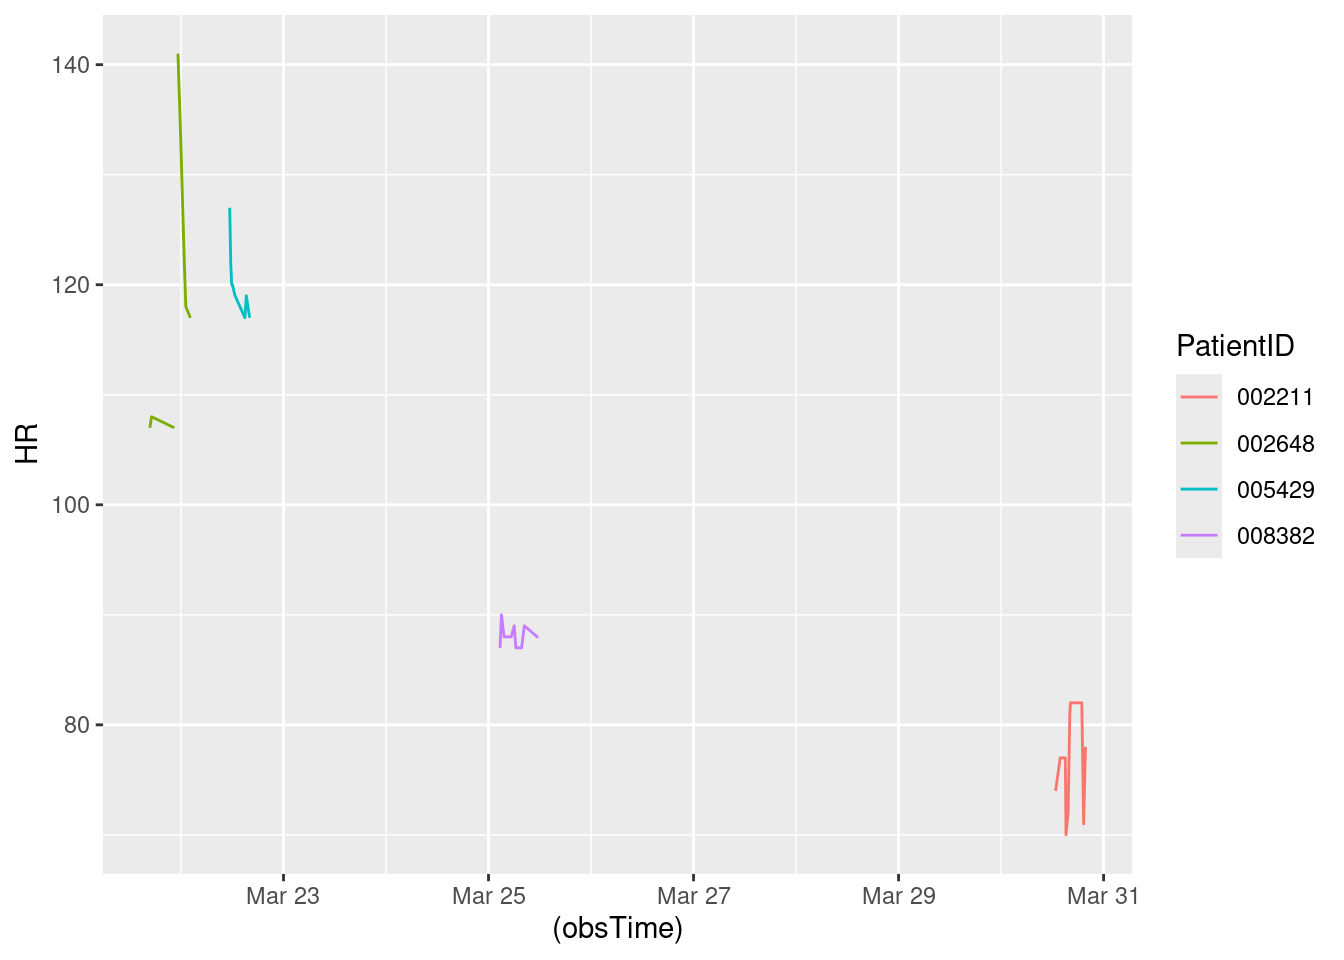
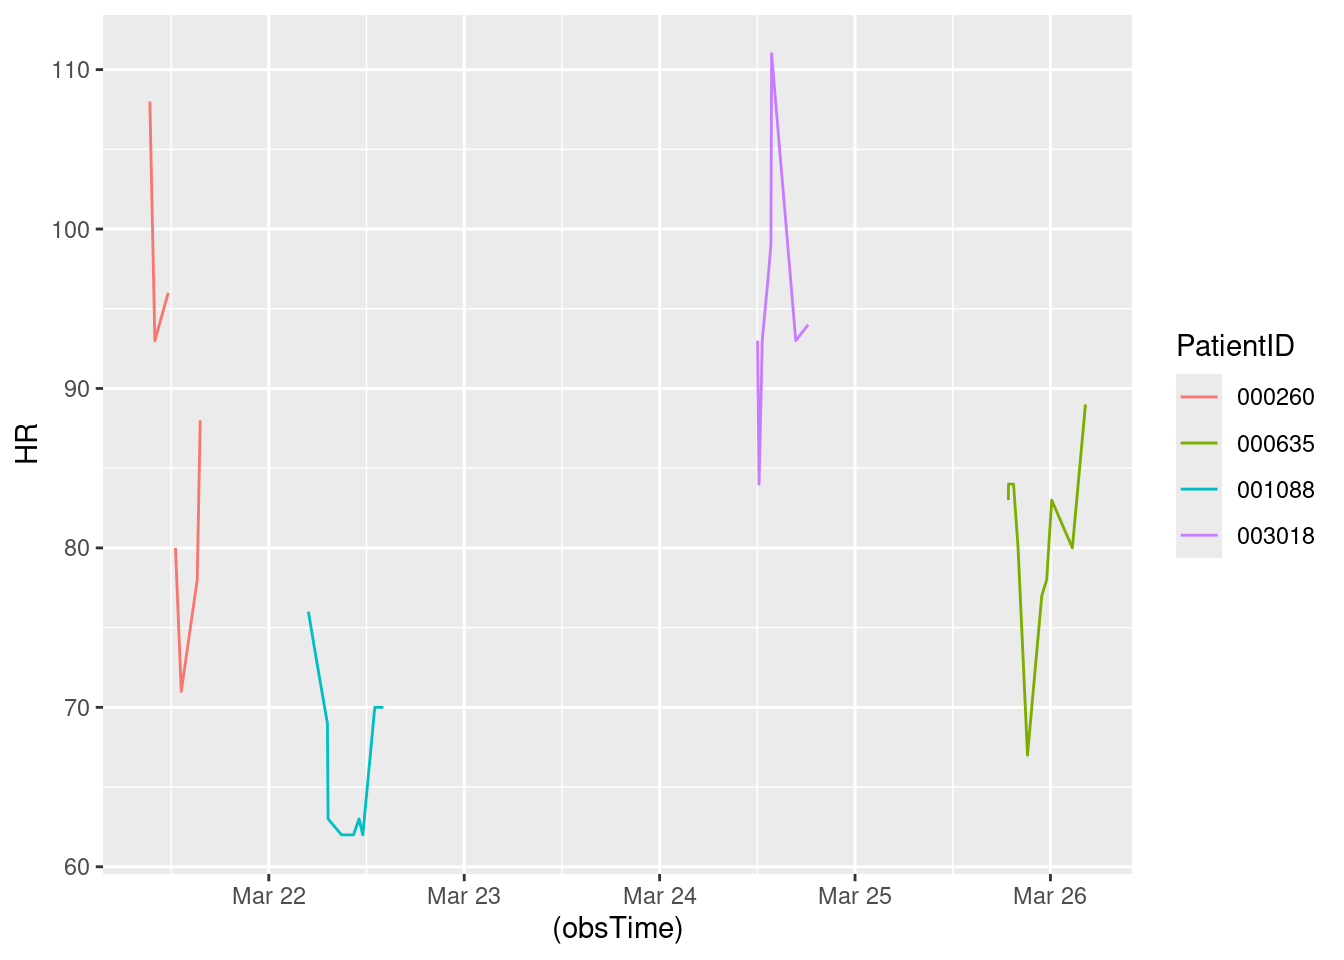
Updated report

diff --git a/HW7.html b/HW7.html
@@ -152,7 +152,7 @@ The following object is masked from 'package:purrr':
 </div>
 <div class="sourceCode cell-code" id="cb8"><pre class="sourceCode r code-with-copy"><code class="sourceCode r"><span id="cb8-1"><a href="#cb8-1" aria-hidden="true" tabindex="-1"></a><span class="fu">toc</span>()</span></code><button title="Copy to Clipboard" class="code-copy-button"><i class="bi"></i></button></pre></div>
 <div class="cell-output cell-output-stdout">
-<pre><code>16.746 sec elapsed</code></pre>
+<pre><code>14.402 sec elapsed</code></pre>
 </div>
 <div class="sourceCode cell-code" id="cb10"><pre class="sourceCode r code-with-copy"><code class="sourceCode r"><span id="cb10-1"><a href="#cb10-1" aria-hidden="true" tabindex="-1"></a><span class="fu">tic</span>()</span>
 <span id="cb10-2"><a href="#cb10-2" aria-hidden="true" tabindex="-1"></a>test1<span class="ot">=</span><span class="fu">makeSepsisDataset</span>(<span class="at">n=</span><span class="dv">50</span>,<span class="at">read_fn =</span> <span class="st">"read_delim"</span>)</span>
@@ -162,7 +162,7 @@ The following object is masked from 'package:purrr':
 </div>
 <div class="sourceCode cell-code" id="cb12"><pre class="sourceCode r code-with-copy"><code class="sourceCode r"><span id="cb12-1"><a href="#cb12-1" aria-hidden="true" tabindex="-1"></a><span class="fu">toc</span>()</span></code><button title="Copy to Clipboard" class="code-copy-button"><i class="bi"></i></button></pre></div>
 <div class="cell-output cell-output-stdout">
-<pre><code>9.253 sec elapsed</code></pre>
+<pre><code>12.454 sec elapsed</code></pre>
 </div>
 <div class="sourceCode cell-code" id="cb14"><pre class="sourceCode r code-with-copy"><code class="sourceCode r"><span id="cb14-1"><a href="#cb14-1" aria-hidden="true" tabindex="-1"></a><span class="fu">tic</span>()</span>
 <span id="cb14-2"><a href="#cb14-2" aria-hidden="true" tabindex="-1"></a>test1<span class="ot">=</span><span class="fu">makeSepsisDataset</span>(<span class="at">n=</span><span class="dv">100</span>,<span class="at">read_fn =</span> <span class="st">"fread"</span>)</span>
@@ -172,7 +172,7 @@ The following object is masked from 'package:purrr':
 </div>
 <div class="sourceCode cell-code" id="cb16"><pre class="sourceCode r code-with-copy"><code class="sourceCode r"><span id="cb16-1"><a href="#cb16-1" aria-hidden="true" tabindex="-1"></a><span class="fu">toc</span>()</span></code><button title="Copy to Clipboard" class="code-copy-button"><i class="bi"></i></button></pre></div>
 <div class="cell-output cell-output-stdout">
-<pre><code>27.759 sec elapsed</code></pre>
+<pre><code>24.923 sec elapsed</code></pre>
 </div>
 <div class="sourceCode cell-code" id="cb18"><pre class="sourceCode r code-with-copy"><code class="sourceCode r"><span id="cb18-1"><a href="#cb18-1" aria-hidden="true" tabindex="-1"></a><span class="fu">tic</span>()</span>
 <span id="cb18-2"><a href="#cb18-2" aria-hidden="true" tabindex="-1"></a>test1<span class="ot">=</span><span class="fu">makeSepsisDataset</span>(<span class="at">n=</span><span class="dv">100</span>,<span class="at">read_fn =</span> <span class="st">"read_delim"</span>)</span>
@@ -182,7 +182,7 @@ The following object is masked from 'package:purrr':
 </div>
 <div class="sourceCode cell-code" id="cb20"><pre class="sourceCode r code-with-copy"><code class="sourceCode r"><span id="cb20-1"><a href="#cb20-1" aria-hidden="true" tabindex="-1"></a><span class="fu">toc</span>()</span></code><button title="Copy to Clipboard" class="code-copy-button"><i class="bi"></i></button></pre></div>
 <div class="cell-output cell-output-stdout">
-<pre><code>17.6 sec elapsed</code></pre>
+<pre><code>24.521 sec elapsed</code></pre>
 </div>
 <div class="sourceCode cell-code" id="cb22"><pre class="sourceCode r code-with-copy"><code class="sourceCode r"><span id="cb22-1"><a href="#cb22-1" aria-hidden="true" tabindex="-1"></a><span class="fu">tic</span>()</span>
 <span id="cb22-2"><a href="#cb22-2" aria-hidden="true" tabindex="-1"></a>test1<span class="ot">=</span><span class="fu">makeSepsisDataset</span>(<span class="at">n=</span><span class="dv">500</span>,<span class="at">read_fn =</span> <span class="st">"fread"</span>)</span>
@@ -192,7 +192,7 @@ The following object is masked from 'package:purrr':
 </div>
 <div class="sourceCode cell-code" id="cb24"><pre class="sourceCode r code-with-copy"><code class="sourceCode r"><span id="cb24-1"><a href="#cb24-1" aria-hidden="true" tabindex="-1"></a><span class="fu">toc</span>()</span></code><button title="Copy to Clipboard" class="code-copy-button"><i class="bi"></i></button></pre></div>
 <div class="cell-output cell-output-stdout">
-<pre><code>150.746 sec elapsed</code></pre>
+<pre><code>123.182 sec elapsed</code></pre>
 </div>
 <div class="sourceCode cell-code" id="cb26"><pre class="sourceCode r code-with-copy"><code class="sourceCode r"><span id="cb26-1"><a href="#cb26-1" aria-hidden="true" tabindex="-1"></a><span class="fu">tic</span>()</span>
 <span id="cb26-2"><a href="#cb26-2" aria-hidden="true" tabindex="-1"></a>test1<span class="ot">=</span><span class="fu">makeSepsisDataset</span>(<span class="at">n=</span><span class="dv">500</span>,<span class="at">read_fn =</span> <span class="st">"read_delim"</span>)</span>
@@ -202,7 +202,7 @@ The following object is masked from 'package:purrr':
 </div>
 <div class="sourceCode cell-code" id="cb28"><pre class="sourceCode r code-with-copy"><code class="sourceCode r"><span id="cb28-1"><a href="#cb28-1" aria-hidden="true" tabindex="-1"></a><span class="fu">toc</span>()</span></code><button title="Copy to Clipboard" class="code-copy-button"><i class="bi"></i></button></pre></div>
 <div class="cell-output cell-output-stdout">
-<pre><code>88.34 sec elapsed</code></pre>
+<pre><code>119.726 sec elapsed</code></pre>
 </div>
 </div>
 <p>Problem 3: Speed reading</p>
@@ -244,7 +244,7 @@ dttm (1): obsTime
 <div class="sourceCode cell-code" id="cb35"><pre class="sourceCode r code-with-copy"><code class="sourceCode r"><span id="cb35-1"><a href="#cb35-1" aria-hidden="true" tabindex="-1"></a><span class="co">#Sys.Date()</span></span>
 <span id="cb35-2"><a href="#cb35-2" aria-hidden="true" tabindex="-1"></a><span class="fu">Sys.time</span>()</span></code><button title="Copy to Clipboard" class="code-copy-button"><i class="bi"></i></button></pre></div>
 <div class="cell-output cell-output-stdout">
-<pre><code>[1] "2024-03-21 08:26:27 UTC"</code></pre>
+<pre><code>[1] "2024-03-21 09:23:25 UTC"</code></pre>
 </div>
 <div class="sourceCode cell-code" id="cb37"><pre class="sourceCode r code-with-copy"><code class="sourceCode r"><span id="cb37-1"><a href="#cb37-1" aria-hidden="true" tabindex="-1"></a>dfnew<span class="ot">=</span>df <span class="sc">%&gt;%</span><span class="fu">subset</span>(SepsisLabel<span class="sc">==</span><span class="dv">1</span>)</span>
 <span id="cb37-2"><a href="#cb37-2" aria-hidden="true" tabindex="-1"></a></span>
@@ -263,19 +263,15 @@ dttm (1): obsTime
 # Groups:   PatientID [4]
   PatientID ICULOS    HR  Temp  Resp SepsisLabel obsTime            
   &lt;chr&gt;      &lt;int&gt; &lt;int&gt; &lt;dbl&gt; &lt;int&gt;       &lt;int&gt; &lt;dttm&gt;             
-1 002211       228    78  NA      22           1 2024-03-30 19:45:16
-2 002648        18   117  NA      18           1 2024-03-22 02:11:35
-3 005429        32   117  38      23           1 2024-03-22 16:04:47
-4 008382       100    88  37.9    31           1 2024-03-25 11:39:50</code></pre>
+1 000260         7    88    NA    24           1 2024-03-21 15:34:35
+2 000635       115    89    NA    21           1 2024-03-26 04:18:08
+3 001088        32    70    NA    22           1 2024-03-22 14:04:58
+4 003018        81    94    NA    17           1 2024-03-24 18:14:09</code></pre>
 </div>
 </div>
 <div class="cell">
 <div class="sourceCode cell-code" id="cb39"><pre class="sourceCode r code-with-copy"><code class="sourceCode r"><span id="cb39-1"><a href="#cb39-1" aria-hidden="true" tabindex="-1"></a>dfnew <span class="sc">%&gt;%</span></span>
 <span id="cb39-2"><a href="#cb39-2" aria-hidden="true" tabindex="-1"></a>  <span class="fu">ggplot</span>()<span class="sc">+</span><span class="fu">geom_line</span>(<span class="fu">aes</span>(<span class="at">y=</span>HR,<span class="at">x=</span>(obsTime),<span class="at">color=</span>PatientID))</span></code><button title="Copy to Clipboard" class="code-copy-button"><i class="bi"></i></button></pre></div>
-<div class="cell-output cell-output-stderr">
-<pre><code>Warning: Removed 2 rows containing missing values or values outside the scale range
-(`geom_line()`).</code></pre>
-</div>
 <div class="cell-output-display">
 <div>
 <figure class="figure">
@@ -288,7 +284,7 @@ dttm (1): obsTime
 <section id="display-the-most-recent-data" class="level2">
 <h2 class="anchored" data-anchor-id="display-the-most-recent-data">Display the most recent data</h2>
 <div class="cell">
-<div class="sourceCode cell-code" id="cb41"><pre class="sourceCode r code-with-copy"><code class="sourceCode r"><span id="cb41-1"><a href="#cb41-1" aria-hidden="true" tabindex="-1"></a>most_recent_data</span></code><button title="Copy to Clipboard" class="code-copy-button"><i class="bi"></i></button></pre></div>
+<div class="sourceCode cell-code" id="cb40"><pre class="sourceCode r code-with-copy"><code class="sourceCode r"><span id="cb40-1"><a href="#cb40-1" aria-hidden="true" tabindex="-1"></a>most_recent_data</span></code><button title="Copy to Clipboard" class="code-copy-button"><i class="bi"></i></button></pre></div>
 <div class="cell-output cell-output-stdout">
 <pre><code># A tibble: 50 × 7
 # Groups:   PatientID [50]
@@ -311,32 +307,32 @@ dttm (1): obsTime
 <section id="calculate-the-difference" class="level2">
 <h2 class="anchored" data-anchor-id="calculate-the-difference">Calculate the difference</h2>
 <div class="cell">
-<div class="sourceCode cell-code" id="cb43"><pre class="sourceCode r code-with-copy"><code class="sourceCode r"><span id="cb43-1"><a href="#cb43-1" aria-hidden="true" tabindex="-1"></a><span class="fu">library</span>(dplyr)</span>
-<span id="cb43-2"><a href="#cb43-2" aria-hidden="true" tabindex="-1"></a><span class="fu">library</span>(tidyr)</span>
-<span id="cb43-3"><a href="#cb43-3" aria-hidden="true" tabindex="-1"></a><span class="fu">library</span>(knitr)</span>
-<span id="cb43-4"><a href="#cb43-4" aria-hidden="true" tabindex="-1"></a>get_observation_data <span class="ot">&lt;-</span> <span class="cf">function</span>(data, n, column_suffix) {</span>
-<span id="cb43-5"><a href="#cb43-5" aria-hidden="true" tabindex="-1"></a>  data <span class="sc">%&gt;%</span></span>
-<span id="cb43-6"><a href="#cb43-6" aria-hidden="true" tabindex="-1"></a>    <span class="fu">group_by</span>(PatientID) <span class="sc">%&gt;%</span></span>
-<span id="cb43-7"><a href="#cb43-7" aria-hidden="true" tabindex="-1"></a>    <span class="fu">slice_max</span>(<span class="at">order_by =</span> obsTime, <span class="at">n =</span> n) <span class="sc">%&gt;%</span></span>
-<span id="cb43-8"><a href="#cb43-8" aria-hidden="true" tabindex="-1"></a>    <span class="fu">select</span>(<span class="sc">-</span><span class="fu">c</span>(ICULOS, SepsisLabel, obsTime)) <span class="sc">%&gt;%</span></span>
-<span id="cb43-9"><a href="#cb43-9" aria-hidden="true" tabindex="-1"></a>    <span class="fu">rename_at</span>(<span class="fu">vars</span>(HR, Temp, Resp),</span>
-<span id="cb43-10"><a href="#cb43-10" aria-hidden="true" tabindex="-1"></a>              <span class="fu">list</span>(<span class="sc">~</span><span class="fu">paste0</span>(., <span class="st">"_"</span>, column_suffix)))</span>
-<span id="cb43-11"><a href="#cb43-11" aria-hidden="true" tabindex="-1"></a>}</span>
-<span id="cb43-12"><a href="#cb43-12" aria-hidden="true" tabindex="-1"></a></span>
-<span id="cb43-13"><a href="#cb43-13" aria-hidden="true" tabindex="-1"></a></span>
-<span id="cb43-14"><a href="#cb43-14" aria-hidden="true" tabindex="-1"></a></span>
-<span id="cb43-15"><a href="#cb43-15" aria-hidden="true" tabindex="-1"></a></span>
-<span id="cb43-16"><a href="#cb43-16" aria-hidden="true" tabindex="-1"></a>last_obs <span class="ot">&lt;-</span> <span class="fu">get_observation_data</span>(new_data, <span class="dv">1</span>, <span class="st">"last"</span>)</span>
-<span id="cb43-17"><a href="#cb43-17" aria-hidden="true" tabindex="-1"></a>penultimate_obs <span class="ot">&lt;-</span> <span class="fu">get_observation_data</span>(new_data, <span class="dv">2</span>, <span class="st">"penult"</span>)</span>
-<span id="cb43-18"><a href="#cb43-18" aria-hidden="true" tabindex="-1"></a>joined_data <span class="ot">&lt;-</span> <span class="fu">full_join</span>(last_obs, penultimate_obs) <span class="sc">%&gt;%</span></span>
-<span id="cb43-19"><a href="#cb43-19" aria-hidden="true" tabindex="-1"></a>  <span class="fu">transmute</span>(PatientID,</span>
-<span id="cb43-20"><a href="#cb43-20" aria-hidden="true" tabindex="-1"></a>            <span class="st">`</span><span class="at">Temperature change</span><span class="st">`</span> <span class="ot">=</span> Temp_last <span class="sc">-</span> Temp_penult,</span>
-<span id="cb43-21"><a href="#cb43-21" aria-hidden="true" tabindex="-1"></a>            <span class="st">`</span><span class="at">Heart rate change</span><span class="st">`</span> <span class="ot">=</span> HR_last <span class="sc">-</span> HR_penult,</span>
-<span id="cb43-22"><a href="#cb43-22" aria-hidden="true" tabindex="-1"></a>            <span class="st">`</span><span class="at">Respiratory rate change</span><span class="st">`</span> <span class="ot">=</span> Resp_last <span class="sc">-</span> Resp_penult)</span></code><button title="Copy to Clipboard" class="code-copy-button"><i class="bi"></i></button></pre></div>
+<div class="sourceCode cell-code" id="cb42"><pre class="sourceCode r code-with-copy"><code class="sourceCode r"><span id="cb42-1"><a href="#cb42-1" aria-hidden="true" tabindex="-1"></a><span class="fu">library</span>(dplyr)</span>
+<span id="cb42-2"><a href="#cb42-2" aria-hidden="true" tabindex="-1"></a><span class="fu">library</span>(tidyr)</span>
+<span id="cb42-3"><a href="#cb42-3" aria-hidden="true" tabindex="-1"></a><span class="fu">library</span>(knitr)</span>
+<span id="cb42-4"><a href="#cb42-4" aria-hidden="true" tabindex="-1"></a>get_observation_data <span class="ot">&lt;-</span> <span class="cf">function</span>(data, n, column_suffix) {</span>
+<span id="cb42-5"><a href="#cb42-5" aria-hidden="true" tabindex="-1"></a>  data <span class="sc">%&gt;%</span></span>
+<span id="cb42-6"><a href="#cb42-6" aria-hidden="true" tabindex="-1"></a>    <span class="fu">group_by</span>(PatientID) <span class="sc">%&gt;%</span></span>
+<span id="cb42-7"><a href="#cb42-7" aria-hidden="true" tabindex="-1"></a>    <span class="fu">slice_max</span>(<span class="at">order_by =</span> obsTime, <span class="at">n =</span> n) <span class="sc">%&gt;%</span></span>
+<span id="cb42-8"><a href="#cb42-8" aria-hidden="true" tabindex="-1"></a>    <span class="fu">select</span>(<span class="sc">-</span><span class="fu">c</span>(ICULOS, SepsisLabel, obsTime)) <span class="sc">%&gt;%</span></span>
+<span id="cb42-9"><a href="#cb42-9" aria-hidden="true" tabindex="-1"></a>    <span class="fu">rename_at</span>(<span class="fu">vars</span>(HR, Temp, Resp),</span>
+<span id="cb42-10"><a href="#cb42-10" aria-hidden="true" tabindex="-1"></a>              <span class="fu">list</span>(<span class="sc">~</span><span class="fu">paste0</span>(., <span class="st">"_"</span>, column_suffix)))</span>
+<span id="cb42-11"><a href="#cb42-11" aria-hidden="true" tabindex="-1"></a>}</span>
+<span id="cb42-12"><a href="#cb42-12" aria-hidden="true" tabindex="-1"></a></span>
+<span id="cb42-13"><a href="#cb42-13" aria-hidden="true" tabindex="-1"></a></span>
+<span id="cb42-14"><a href="#cb42-14" aria-hidden="true" tabindex="-1"></a></span>
+<span id="cb42-15"><a href="#cb42-15" aria-hidden="true" tabindex="-1"></a></span>
+<span id="cb42-16"><a href="#cb42-16" aria-hidden="true" tabindex="-1"></a>last_obs <span class="ot">&lt;-</span> <span class="fu">get_observation_data</span>(new_data, <span class="dv">1</span>, <span class="st">"last"</span>)</span>
+<span id="cb42-17"><a href="#cb42-17" aria-hidden="true" tabindex="-1"></a>penultimate_obs <span class="ot">&lt;-</span> <span class="fu">get_observation_data</span>(new_data, <span class="dv">2</span>, <span class="st">"penult"</span>)</span>
+<span id="cb42-18"><a href="#cb42-18" aria-hidden="true" tabindex="-1"></a>joined_data <span class="ot">&lt;-</span> <span class="fu">full_join</span>(last_obs, penultimate_obs) <span class="sc">%&gt;%</span></span>
+<span id="cb42-19"><a href="#cb42-19" aria-hidden="true" tabindex="-1"></a>  <span class="fu">transmute</span>(PatientID,</span>
+<span id="cb42-20"><a href="#cb42-20" aria-hidden="true" tabindex="-1"></a>            <span class="st">`</span><span class="at">Temperature change</span><span class="st">`</span> <span class="ot">=</span> Temp_last <span class="sc">-</span> Temp_penult,</span>
+<span id="cb42-21"><a href="#cb42-21" aria-hidden="true" tabindex="-1"></a>            <span class="st">`</span><span class="at">Heart rate change</span><span class="st">`</span> <span class="ot">=</span> HR_last <span class="sc">-</span> HR_penult,</span>
+<span id="cb42-22"><a href="#cb42-22" aria-hidden="true" tabindex="-1"></a>            <span class="st">`</span><span class="at">Respiratory rate change</span><span class="st">`</span> <span class="ot">=</span> Resp_last <span class="sc">-</span> Resp_penult)</span></code><button title="Copy to Clipboard" class="code-copy-button"><i class="bi"></i></button></pre></div>
 <div class="cell-output cell-output-stderr">
 <pre><code>Joining with `by = join_by(PatientID)`</code></pre>
 </div>
-<div class="sourceCode cell-code" id="cb45"><pre class="sourceCode r code-with-copy"><code class="sourceCode r"><span id="cb45-1"><a href="#cb45-1" aria-hidden="true" tabindex="-1"></a><span class="fu">kable</span>(joined_data, <span class="at">caption =</span> <span class="st">"Patients' Recent Changes in Vital Stats"</span>)</span></code><button title="Copy to Clipboard" class="code-copy-button"><i class="bi"></i></button></pre></div>
+<div class="sourceCode cell-code" id="cb44"><pre class="sourceCode r code-with-copy"><code class="sourceCode r"><span id="cb44-1"><a href="#cb44-1" aria-hidden="true" tabindex="-1"></a><span class="fu">kable</span>(joined_data, <span class="at">caption =</span> <span class="st">"Patients' Recent Changes in Vital Stats"</span>)</span></code><button title="Copy to Clipboard" class="code-copy-button"><i class="bi"></i></button></pre></div>
 <div class="cell-output-display">
 <table class="table table-sm table-striped small">
 <caption>Patients’ Recent Changes in Vital Stats</caption>
